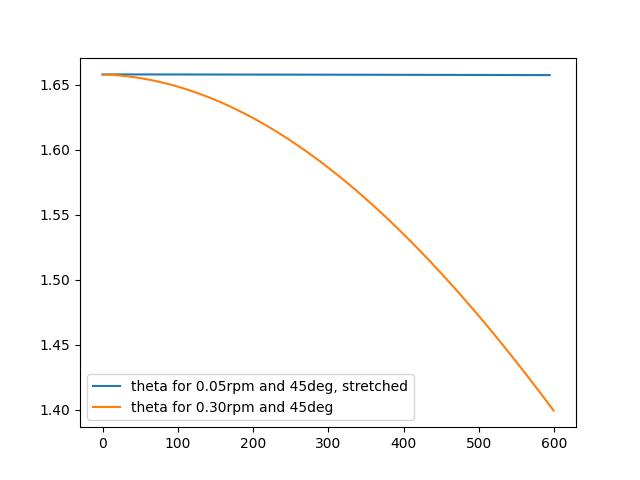
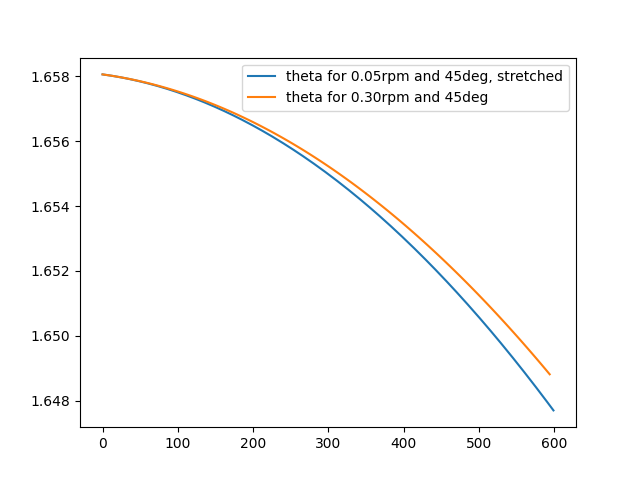
minor changes

diff --git a/validation/check_pointings.py b/validation/check_pointings.py
@@ -34,14 +34,14 @@ pnt = hdul[1].data
 
 theta_030_375 = pnt['THETA']
 
-nmax_slowest = 100
+nmax_fastest = 100
 ratio = int(30/5)
 
-samps_fastest = np.arange(nmax_slowest*ratio)
-samps_slowest = np.arange(nmax_slowest)*ratio
+samps_slowest = np.arange(nmax_fastest*ratio)
+samps_fastest = np.arange(nmax_fastest)*ratio
 
-plt.plot(samps_slowest, theta_005_450[:nmax_slowest], label='theta for 0.05rpm and 45deg, stretched')
-plt.plot(samps_fastest, theta_030_450[:nmax_slowest*ratio], label='theta for 0.30rpm and 45deg')
+plt.plot(samps_slowest, theta_005_450[:nmax_fastest*ratio], label='theta for 0.05rpm and 45deg, stretched')
+plt.plot(samps_fastest, theta_030_450[:nmax_fastest], label='theta for 0.30rpm and 45deg')
 plt.legend()
 plt.savefig('thetas.png')
 
